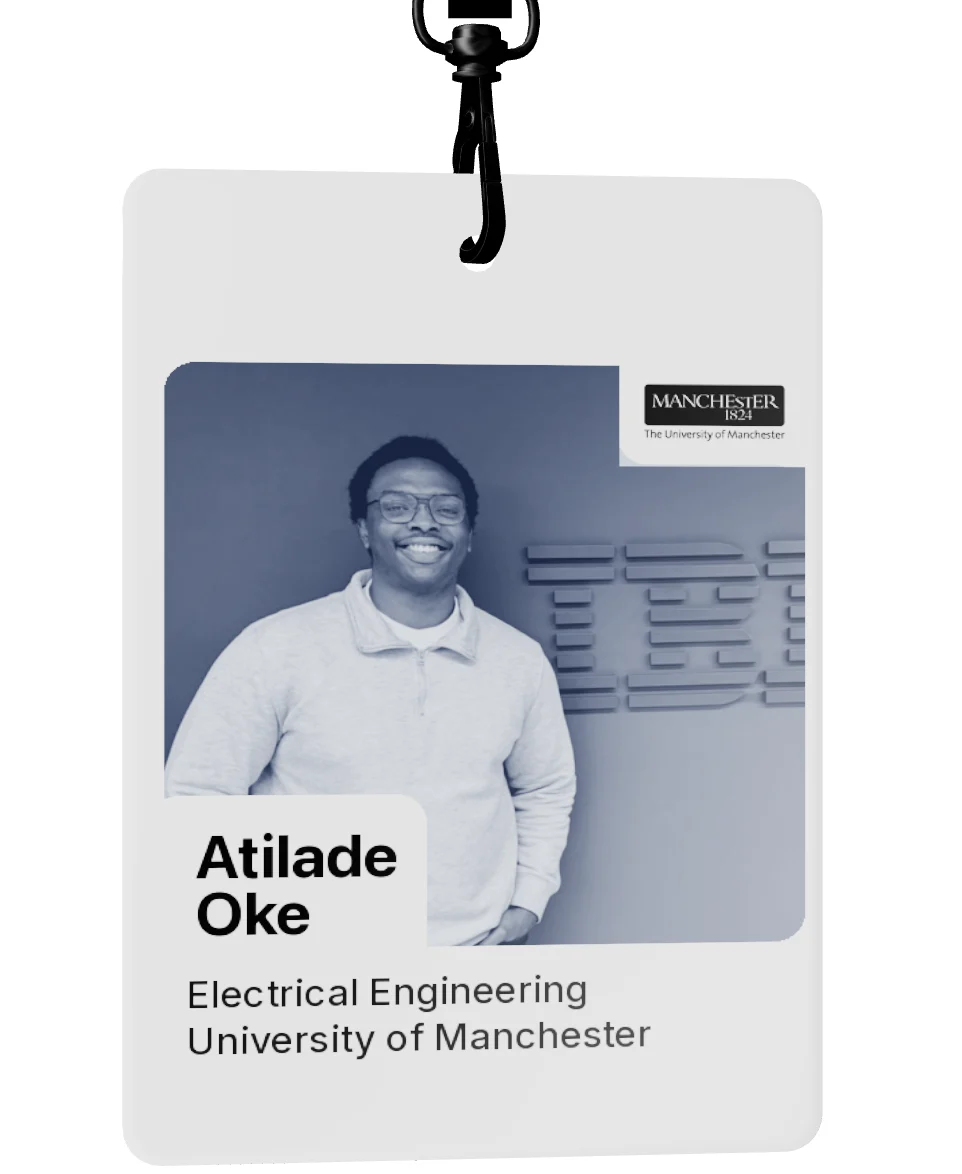
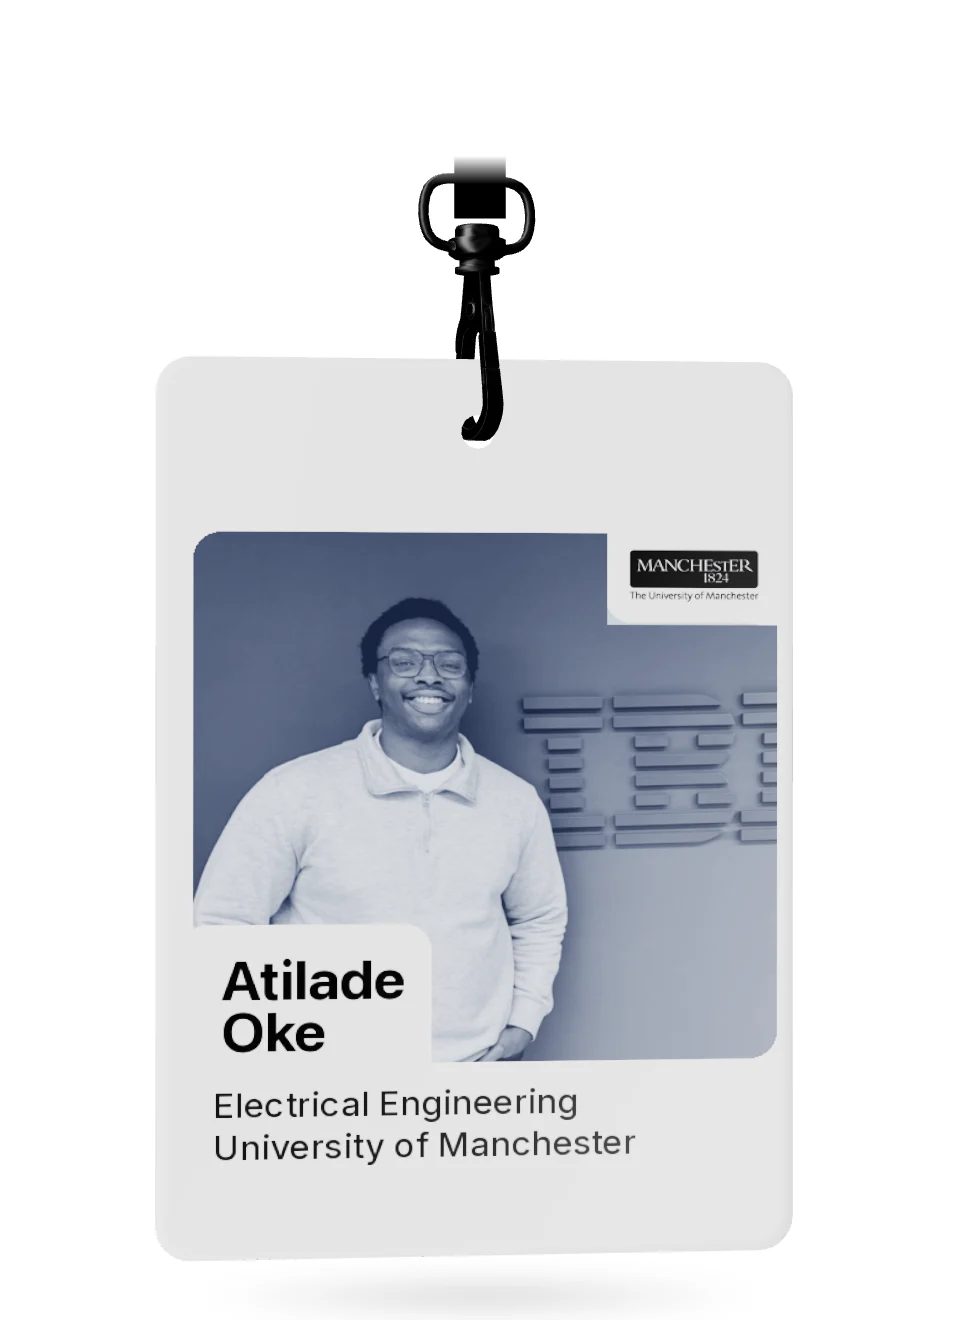
about: hang the badge below the header, fill the back face
Desktop: the whole clip now hangs below the fixed header, and the strap fades out
under its bottom edge. A soft contact shadow sits under the card. The card is 320px
wide (top ~180px, bottom ~630px at 1280x633).
Back face: the rows share the card's height, and the CV link sits at the bottom edge.
390: the clip sits ~20px under the header, with the strap fading in between.
The fallback stills and the reduced-motion overlay positions are regenerated.

Changed region(s): [[0.1247, 0.0, 0.8732, 1.0], [0.4366, 0.9506, 0.499, 0.9813]]

diff --git a/src/app/about/page.tsx b/src/app/about/page.tsx
@@ -9,12 +9,12 @@ import AboutSection from "@/components/AboutSection";
 const BadgeBack = ({ live, width }: { live: boolean; width: number }) => (
   <div style={{ width, height: (width * 2.25) / 1.6 }} className="flex flex-col rounded-[22px] bg-[#e6e6e8] px-6 pb-6 pt-9 text-ink">
     <p className="text-[28px] font-semibold leading-[1.1] tracking-[-0.02em]">Atilade Oke</p>
-    <ul className="mt-6 divide-y divide-black/[0.12] border-y border-black/[0.12] text-[17px] leading-snug">
-      <li className="py-3">Founder, Refinery</li>
-      <li className="py-3">Analyst, Data and AI, ION</li>
-      <li className="py-3">12× hackathon winner</li>
-      <li className="py-3">#1 IBM Z Ambassador <span className="whitespace-nowrap">2025–26</span></li>
-      <li className="py-3">BEng, Manchester, 2:1</li>
+    <ul className="mt-6 flex flex-1 flex-col divide-y divide-black/[0.12] border-y border-black/[0.12] text-[17px] leading-snug">
+      <li className="flex flex-1 items-center py-2.5">Founder, Refinery</li>
+      <li className="flex flex-1 items-center py-2.5">Analyst, Data and AI, ION</li>
+      <li className="flex flex-1 items-center py-2.5">12× hackathon winner</li>
+      <li className="flex flex-1 items-center py-2.5"><span>#1 IBM Z Ambassador <span className="whitespace-nowrap">2025–26</span></span></li>
+      <li className="flex flex-1 items-center py-2.5">BEng, Manchester, 2:1</li>
     </ul>
     <a
       href="/Atilade_Oke_CV.pdf"
@@ -75,9 +75,10 @@ html{caret-color:#0071e3;scrollbar-color:#c7c7cc transparent}
 @media (prefers-reduced-motion:reduce){*,*::before,*::after{transition:none !important;animation:none !important}}
 `;
 
-// Camera [x, y, z] per layout: framed so the whole card fits the first screen, 352px wide at 1280 and 290px at 390.
-const DESKTOP_CAMERA: [number, number, number] = [0, -0.331, 7.565];
-const MOBILE_CAMERA: [number, number, number] = [0, -0.415, 7.51];
+// Camera [x, y, z] per layout: the whole clip hangs below the header and the card ends inside the first
+// screen; 320px wide at 1280 (card top ~180px) and 290px at 390 (clip 12px+ under the header).
+const DESKTOP_CAMERA: [number, number, number] = [0, -0.142, 9.356];
+const MOBILE_CAMERA: [number, number, number] = [0, -0.377, 8.065];
 
 export default function About() {
   const { mode, mobile } = useBadgeMode();
@@ -93,24 +94,27 @@ export default function About() {
             <div
               role="img"
               aria-label="Atilade Oke's lanyard badge: Electrical Engineering, University of Manchester. Drag it to swing it."
-              className="relative h-[480px] lg:mx-auto lg:h-[587px] lg:w-[480px]"
+              // The strap fades out just under the header, so the badge hangs from above the page.
+              className="relative h-[512px] [mask-image:linear-gradient(to_bottom,transparent_4px,black_16px)] lg:mx-auto lg:h-[660px] lg:w-[480px] lg:[mask-image:linear-gradient(to_bottom,transparent_78px,black_92px)]"
             >
+              {/* Contact shadow under the card. */}
+              <div className="pointer-events-none absolute left-1/2 top-[636px] hidden h-6 w-[280px] -translate-x-1/2 rounded-[50%] bg-[radial-gradient(closest-side,rgba(0,0,0,0.16),transparent)] blur-[6px] lg:block" />
               {mode === "live" ? (
                 <Lanyard
                   position={mobile ? MOBILE_CAMERA : DESKTOP_CAMERA}
                   gravity={[0, -40, 0]}
                   flipped={flipped}
                   onFlip={flip}
-                  back={<BadgeBack live width={mobile ? 290 : 352} />}
-                  backWidth={mobile ? 290 : 352}
+                  back={<BadgeBack live width={mobile ? 290 : 320} />}
+                  backWidth={mobile ? 290 : 320}
                 />
               ) : (
                 <>
                   <StillBadge />
                   {/* Reduced motion and no WebGL: the back swaps in at once, over the card's footprint. */}
                   {flipped && (
-                    <div className="absolute left-1/2 top-[76px] -translate-x-1/2 lg:top-[87px]">
-                      <BadgeBack live={false} width={mobile ? 290 : 352} />
+                    <div className="absolute left-1/2 top-[99px] -translate-x-1/2 lg:top-[180px]">
+                      <BadgeBack live={false} width={mobile ? 290 : 320} />
                     </div>
                   )}
                 </>
